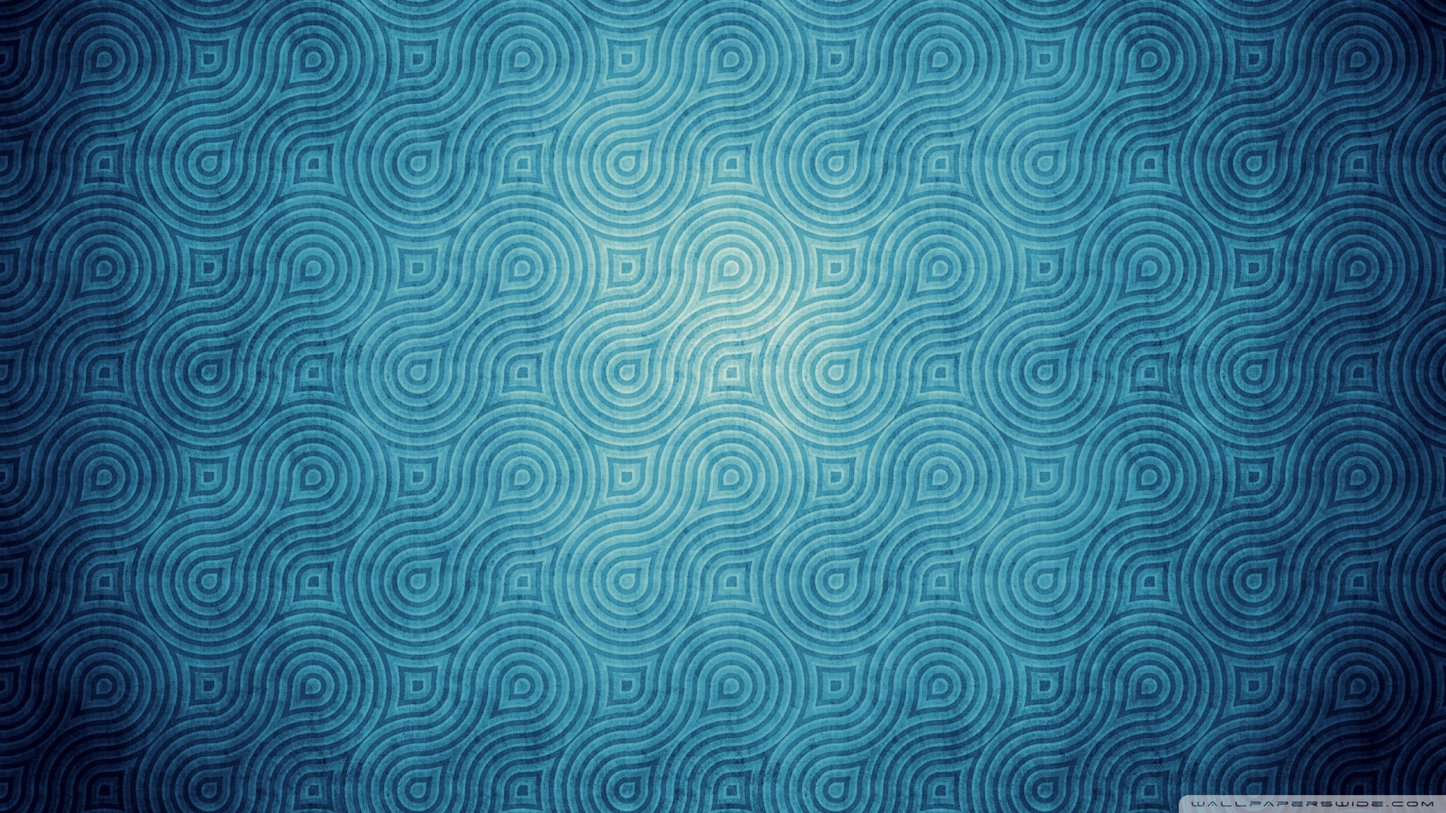
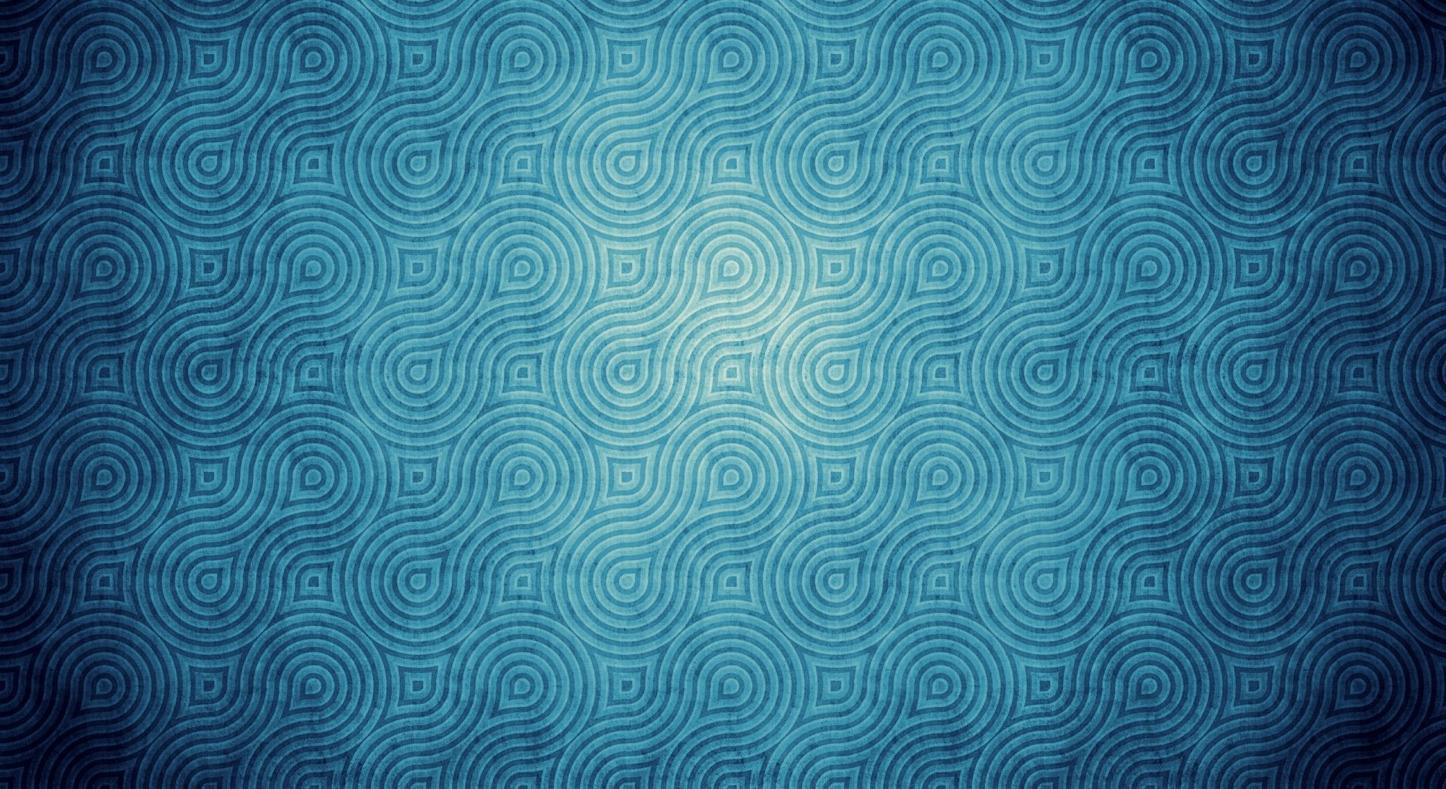
style: change wallpaper and the background of the dialog

diff --git a/src/components/MarkdownDialog.js b/src/components/MarkdownDialog.js
@@ -17,7 +17,7 @@ import ClipLoader from 'react-spinners/ClipLoader';
 const styles = {
     appBar: {
         position: 'relative',
-        backgroundColor: '#a261c052',
+        backgroundColor: '#4a464c',
     },
     flex: {
         flex: 1,
@@ -47,22 +47,6 @@ class FullScreenDialog extends React.Component {
         this.props.onClose()
     };
 
-    /**
-     * Check if the markdown is ready, if it is not already displayed a loading spinner.
-     */
-    isLoaded = () => {
-        if (this.props.loaded) {
-            return renderHTML(this.props.markdownHTML)
-        }
-        return <div className={"spinner"} style={{textAlign: "center"}}>
-            <ClipLoader
-                sizeUnit={"px"}
-                size={150}
-                color={"#123abc"}
-            />
-        </div>
-    };
-
     render() {
         const {classes} = this.props;
         return (
@@ -85,10 +69,10 @@ class FullScreenDialog extends React.Component {
                     </AppBar>
                     <div style={{marginTop: "2rem"}}>
                         <Grid container direction="row" justify="center" alignItems="center">
-                            <Paper style={{padding: "5rem 5rem 5rem 5rem", width: this.props.paperWidth, opacity: 0.95, minHeight: "10rem"}}
+                            <Paper style={{padding: "5rem 5rem 5rem 5rem", opacity: 0.95, minHeight: "10rem"}}
                                    elevation={24}>
                                 <div>
-                                    {this.isLoaded()}
+                                    {renderHTML(this.props.markdownHTML)}
                                 </div>
                             </Paper>
                         </Grid>

diff --git a/src/components/Table.js b/src/components/Table.js
@@ -85,13 +85,7 @@ export default class BetterTable extends React.Component {
     handleOpenDialog = (row) => {
         const gitUrl = "https://api.github.com/markdown";
 
-        // Open the dialog...
-        this.setState({
-            markdownDialogStatus: true,
-            markdownTitle: row.name,
-        });
-
-        // Read the markdown file...
+        // Read the markdown file... and open the modal...
         fetch(row.action.markdownPath)
             .then(res => res.text())
             .then((result) => {
@@ -110,6 +104,8 @@ export default class BetterTable extends React.Component {
                                 markdownHTML: data.replace(/\n/g, ''),
                                 markdownLoaded: true,
                                 paperWidth: "55rem",
+                                markdownDialogStatus: true,
+                                markdownTitle: row.name,
                             });
                         });
                     } else { // If the type is "markdowm html" ...
@@ -117,6 +113,8 @@ export default class BetterTable extends React.Component {
                             markdownHTML: result,
                             markdownLoaded: true,
                             paperWidth: "110rem",
+                            markdownDialogStatus: true,
+                            markdownTitle: row.name,
                         });
                     }
 
@@ -131,7 +129,6 @@ export default class BetterTable extends React.Component {
     handleCloseDialog = () => {
         this.setState({
             markdownDialogStatus: false,
-            markdownLoaded: false,
             markdownHTML: "",
             markdownTitle: "",
         });

diff --git a/src/App.css b/src/App.css
@@ -2,33 +2,12 @@
     text-align: center;
 }
 
-.App-logo {
-    animation: App-logo-spin infinite 20s linear;
-    height: 80px;
-}
-
-.App-header {
-    background-color: #222;
-    height: 100px;
-    padding: 20px;
-    color: white;
-}
-
 .App-title {
     font-size: 2.6em;
 }
 
 .App-intro {
     font-size: large;
-}
-
-@keyframes App-logo-spin {
-    from {
-        transform: rotate(0deg);
-    }
-    to {
-        transform: rotate(360deg);
-    }
 }
 
 .better-table-container {
@@ -47,5 +26,5 @@ body {
 }
 
 div[class*="MuiDialog-paperFullScreen-"]{
-    background-image: url('./media/images/wallpaper1.jpg');
+    background-color: #ddd;
 }
